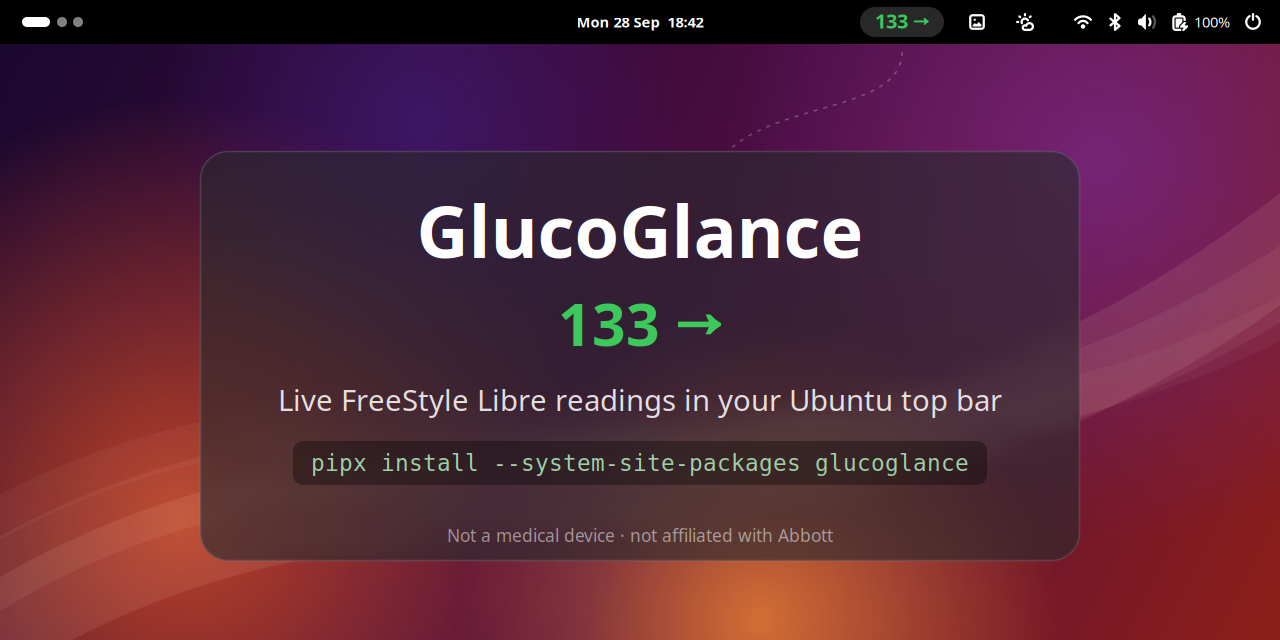
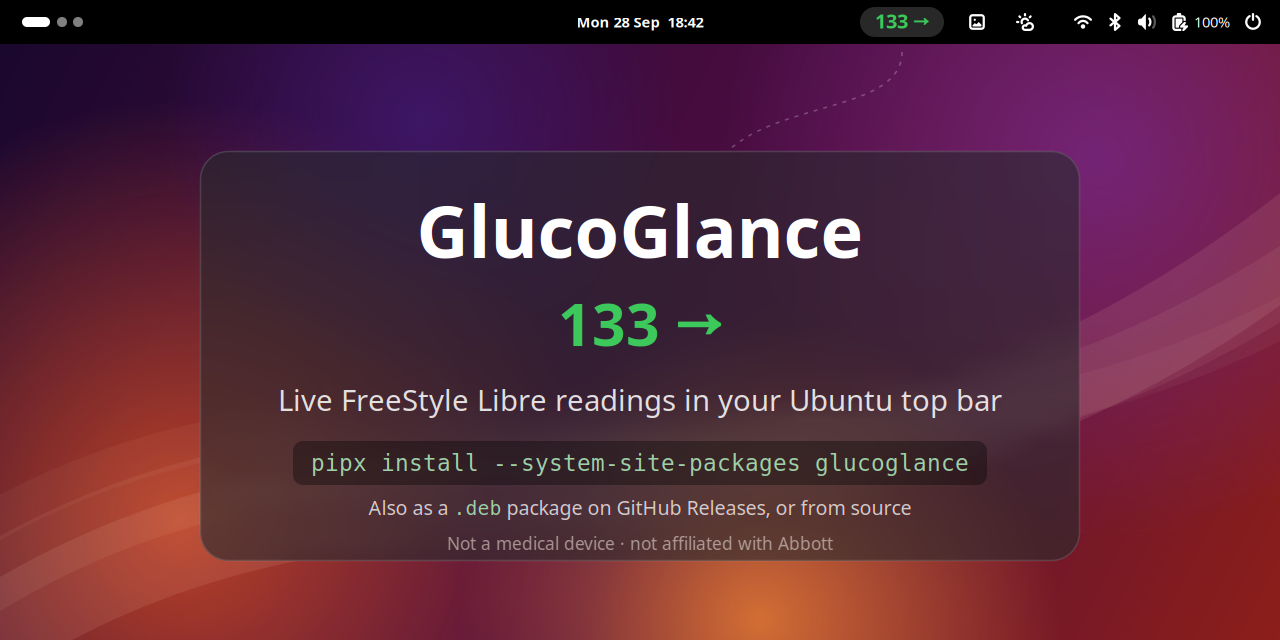
Mention the .deb and from-source installs in the social preview
- Add a line under the pipx command in docs/social-preview.png: "Also as a .deb package on GitHub Releases, or from source"
- Move the disclaimer line down slightly to make room
- Update the README's alt text for the image to match

Changed region(s): [[0.2812, 0.7812, 0.7188, 0.875]]

diff --git a/README.md b/README.md
@@ -7,7 +7,7 @@ Libre sensor, via LibreLinkUp) in the Ubuntu top bar. Phase 1: just the
 number and trend arrow, refreshed roughly every minute. Threshold alarms are
 planned as a phase 2.
 
-![Illustration of an Ubuntu desktop: the top bar shows GlucoGlance's reading of 133 mg/dL in green with a steady trend arrow, next to the usual system icons, above a frosted panel with the app name, tagline, and pipx install command](https://raw.githubusercontent.com/toabm/glucoglance-ubuntu/master/docs/social-preview.png)
+![Illustration of an Ubuntu desktop: the top bar shows GlucoGlance's reading of 133 mg/dL in green with a steady trend arrow, next to the usual system icons, above a frosted panel with the app name, tagline, the pipx install command, and a note that a .deb package and a from-source install are also available](https://raw.githubusercontent.com/toabm/glucoglance-ubuntu/master/docs/social-preview.png)
 
 *The reading and trend arrow sit in the top bar like any other tray icon.
 The color follows your configured range: green in range, yellow high, red
